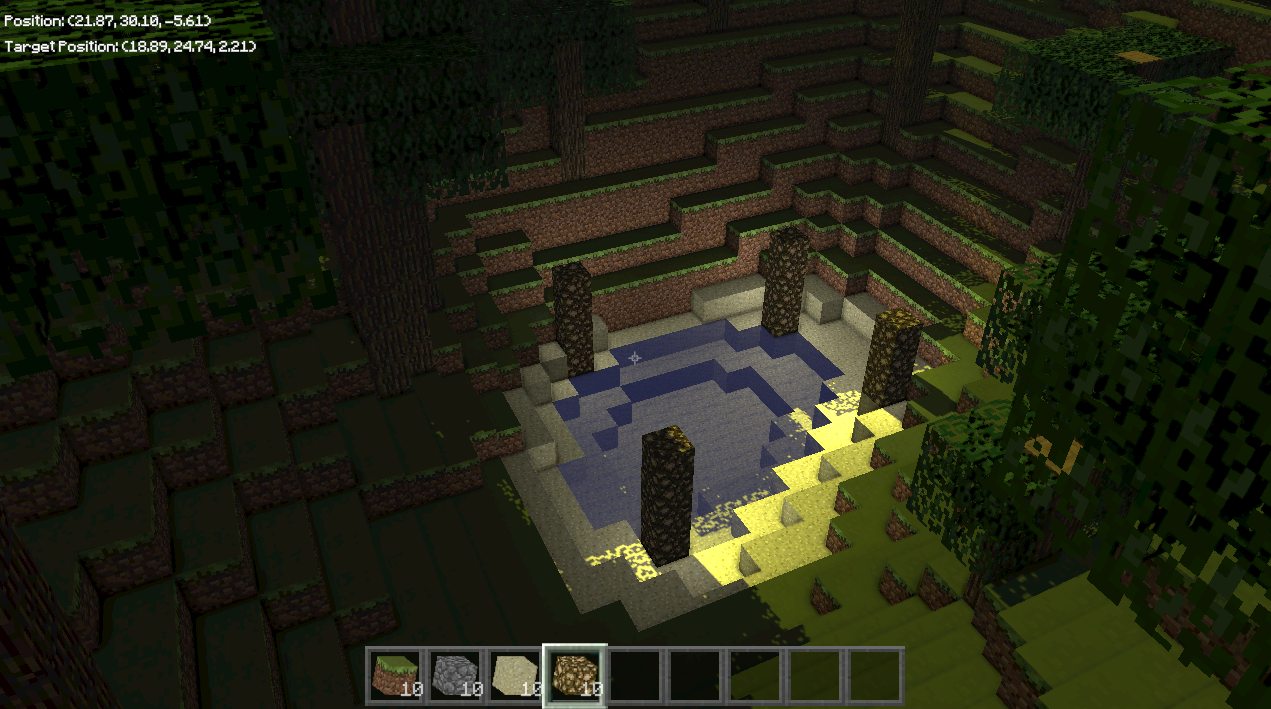
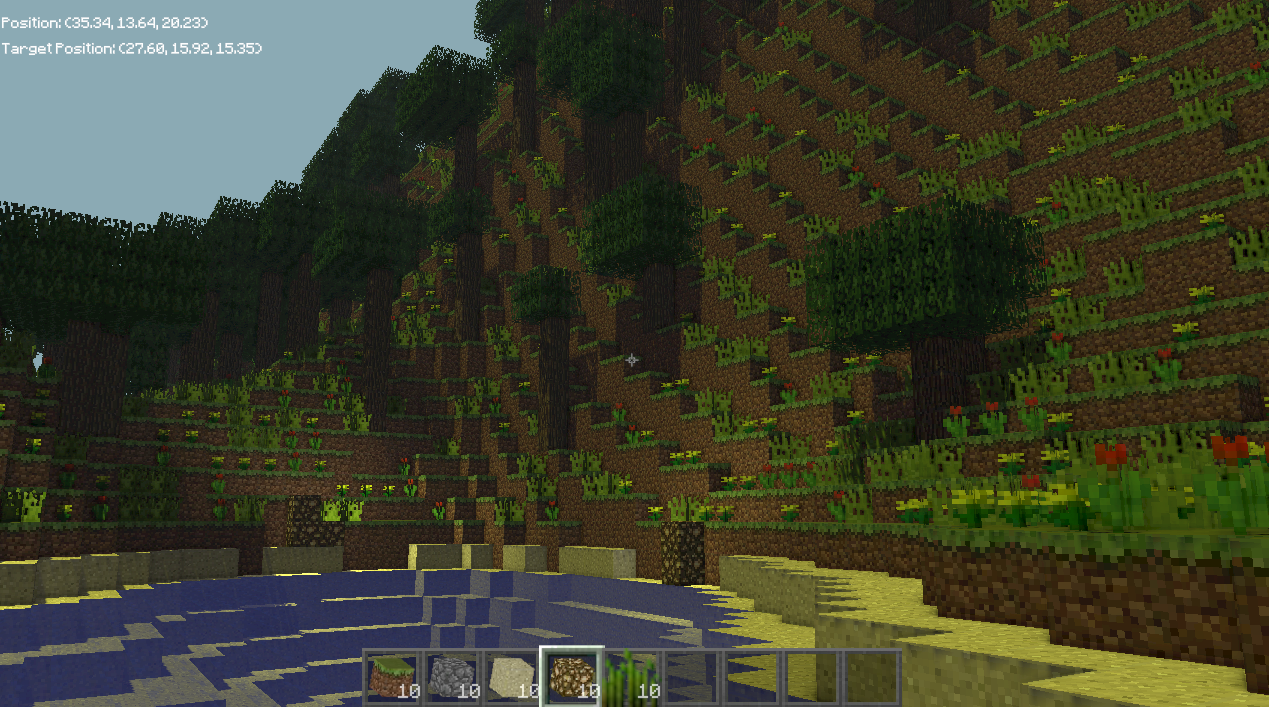
*add grass, flowers and update current look

diff --git a/game/factory/BlockFactory.cpp b/game/factory/BlockFactory.cpp
@@ -153,6 +153,20 @@ CBlockFactory & CBlockFactory::Instance()
 
 TGLUnbakedSolidMeshComponent CBlockFactory::GetMeshForBlock(const TBlockComponent & Block, EBlockFace Faces)
 {
+  switch (Instance().m_BlockUVs[Block.Type].MeshType)
+  {
+    case EBlockMeshType::Cube:
+      return GetCubeMeshForBlock(Block, Faces);
+    case EBlockMeshType::Cross:
+      return GetCrossMeshForBlock(Block, Faces);
+  }
+
+  assert(false);
+  return TGLUnbakedSolidMeshComponent{};
+}
+
+TGLUnbakedSolidMeshComponent CBlockFactory::GetCubeMeshForBlock(const TBlockComponent & Block, EBlockFace Faces)
+{
   TGLUnbakedSolidMeshComponent Mesh;
 
   int ActiveFaceIndex = 0;
@@ -166,7 +180,7 @@ TGLUnbakedSolidMeshComponent CBlockFactory::GetMeshForBlock(const TBlockComponen
 
       ActiveFaceIndex++;
 
-      Mesh.UV = GetUVForBlock(Block, Faces);
+      Mesh.UV = GetCubeUVForBlock(Block, Faces);
 
       Mesh.Normals.insert(Mesh.Normals.end(), CUBE_NORMALS[FaceIndex].begin(), CUBE_NORMALS[FaceIndex].end());
     }
@@ -175,7 +189,96 @@ TGLUnbakedSolidMeshComponent CBlockFactory::GetMeshForBlock(const TBlockComponen
   return Mesh;
 }
 
-std::vector<glm::vec2> CBlockFactory::GetUVForBlock(const TBlockComponent & Block, EBlockFace Faces)
+TGLUnbakedSolidMeshComponent CBlockFactory::GetCrossMeshForBlock(const TBlockComponent & Block, EBlockFace Faces)
+{
+  TGLUnbakedSolidMeshComponent Mesh;
+
+  static constexpr glm::vec3 FirstQuadVertices[] =
+  {
+    // Front face
+    glm::vec3(-0.5f, -0.5f, 0.5f),
+    glm::vec3(0.5f, -0.5f, -0.5f),
+    glm::vec3(0.5f, 0.5f, -0.5f),
+    glm::vec3(-0.5f, 0.5f, 0.5f)
+  };
+
+  static constexpr glm::vec3 SecondQuadVertices[] =
+  {
+    glm::vec3(-0.5f, -0.5f, -0.5f),
+    glm::vec3(0.5f, -0.5f,  0.5f),
+    glm::vec3(0.5f, 0.5f,   0.5f),
+    glm::vec3(-0.5f, 0.5f, -0.5f)
+  };
+
+  static constexpr glm::vec3 FirstQuadNormals[] =
+  {
+    // Front face
+    glm::vec3(1.0f, 0.5f, 1.0f),
+    glm::vec3(1.0f, 0.5f, 1.0f),
+    glm::vec3(1.0f, 0.5f, 1.0f),
+    glm::vec3(1.0f, 0.5f, 1.0f),
+  };
+
+  static constexpr glm::vec3 FirstQuadInversedNormals[] =
+  {
+    // Front face
+    glm::vec3(-1.0f, -0.5f, -1.0f),
+    glm::vec3(-1.0f, -0.5f, -1.0f),
+    glm::vec3(-1.0f, -0.5f, -1.0f),
+    glm::vec3(-1.0f, -0.5f, -1.0f),
+  };
+
+  static constexpr glm::vec3 SecondQuadNormals[] =
+  {
+    glm::vec3(-1.0f, 0.5f, 1.0f),
+    glm::vec3(-1.0f, 0.5f, 1.0f),
+    glm::vec3(-1.0f, 0.5f, 1.0f),
+    glm::vec3(-1.0f, 0.5f, 1.0f),
+  };
+
+  static constexpr glm::vec3 SecondQuadInversedNormals[] =
+  {
+    glm::vec3(1.0f, -0.5f, -1.0f),
+    glm::vec3(1.0f, -0.5f, -1.0f),
+    glm::vec3(1.0f, -0.5f, -1.0f),
+    glm::vec3(1.0f, -0.5f, -1.0f),
+  };
+
+  static constexpr int QuadIndices[] =
+  {
+    0, 1, 2, 2, 3, 0,
+    4, 6, 5, 7, 6, 4,
+    8, 9, 10, 10, 11, 8,
+    13, 12, 14, 15, 14, 12,
+  };
+
+  Mesh.Vertices.reserve(std::size(FirstQuadVertices) * 2  + std::size(SecondQuadVertices) * 2);
+  Mesh.Vertices.insert(Mesh.Vertices.end(), std::begin(FirstQuadVertices), std::end(FirstQuadVertices));
+  Mesh.Vertices.insert(Mesh.Vertices.end(), std::begin(FirstQuadVertices), std::end(FirstQuadVertices));
+  Mesh.Vertices.insert(Mesh.Vertices.end(), std::begin(SecondQuadVertices), std::end(SecondQuadVertices));
+  Mesh.Vertices.insert(Mesh.Vertices.end(), std::begin(SecondQuadVertices), std::end(SecondQuadVertices));
+
+  Mesh.Indices.reserve(std::size(QuadIndices));
+  Mesh.Indices.insert(Mesh.Indices.end(), std::begin(QuadIndices), std::end(QuadIndices));
+
+  Mesh.Normals.reserve(std::size(FirstQuadNormals) + std::size(SecondQuadNormals));
+  Mesh.Normals.insert(Mesh.Normals.end(), std::begin(FirstQuadNormals), std::end(FirstQuadNormals));
+  Mesh.Normals.insert(Mesh.Normals.end(), std::begin(FirstQuadInversedNormals), std::end(FirstQuadInversedNormals));
+  Mesh.Normals.insert(Mesh.Normals.end(), std::begin(SecondQuadNormals), std::end(SecondQuadNormals));
+  Mesh.Normals.insert(Mesh.Normals.end(), std::begin(SecondQuadInversedNormals), std::end(SecondQuadInversedNormals));
+
+  const auto UV = GetCubeUVForBlock(Block, EBlockFace::Front);
+
+  Mesh.UV.reserve(UV.size() * 2);
+  Mesh.UV.insert(Mesh.UV.end(), UV.begin(), UV.end());
+  Mesh.UV.insert(Mesh.UV.end(), UV.begin(), UV.end());
+  Mesh.UV.insert(Mesh.UV.end(), UV.begin(), UV.end());
+  Mesh.UV.insert(Mesh.UV.end(), UV.begin(), UV.end());
+
+  return Mesh;
+}
+
+std::vector<glm::vec2> CBlockFactory::GetCubeUVForBlock(const TBlockComponent & Block, EBlockFace Faces)
 {
   std::vector<glm::vec2> UV;
 
@@ -382,6 +485,8 @@ void CBlockFactory::LoadBlockUVs()
 
       UV.Faces[Index++] = { FaceUV.first / m_BlockAtlasSize.x, FaceUV.second / m_BlockAtlasSize.y };
     }
+
+    UV.MeshType = static_cast<EBlockMeshType>(BlockUV["mesh"].get<int>());
 
     m_BlockUVs[static_cast<EBlockType>(BlockUV["id"].get<int>())] = UV;
   }

diff --git a/game/systems/terrain/NoiseTerrainGenerator.cpp b/game/systems/terrain/NoiseTerrainGenerator.cpp
@@ -63,9 +63,8 @@ TBlockComponent CNoiseTerrainGenerator::GenerateImpl(glm::vec3 _Position)
     if (Elevation < 0.2f)
       return TBlockComponent{ .Type = EBlockType::Sand };
 
-    if (Generate(glm::vec3(_Position.x, _Position.y + 1.f, _Position.z)).Type == EBlockType::Air)
+    if (auto Type = Generate(glm::vec3(_Position.x, _Position.y + 1.f, _Position.z)).Type; Type == EBlockType::Air)
     {
-
       if (m_Noise.GetNoise(_Position.x * 50.f, _Position.z * 50.f) > 0.85f && _Position.y > 15)
       {
         SpawnTreeAt(_Position);
@@ -73,8 +72,18 @@ TBlockComponent CNoiseTerrainGenerator::GenerateImpl(glm::vec3 _Position)
         return Generate(_Position);
       }
 
+      if (m_Noise.GetNoise(_Position.x * 31.f, _Position.z * 31.f) > 0.55f)
+        SpawnGrassAt(_Position);
+      else if (m_Noise.GetNoise(_Position.x * 13.f, _Position.z * 75.f) > 0.71f)
+        SpawnFlowerAt(EBlockType::YellowFlower, _Position);
+      else if (m_Noise.GetNoise(_Position.x * 45.f, _Position.z * 6.f) > 0.43f)
+        SpawnFlowerAt(EBlockType::RedFlower, _Position);
+
       return TBlockComponent{ .Type = EBlockType::Grass };
     }
+    else
+    if (Type == EBlockType::GrassDecoration || Type == EBlockType::YellowFlower || Type == EBlockType::RedFlower)
+      return TBlockComponent{.Type = EBlockType::Grass };
 
     return TBlockComponent{ .Type = EBlockType::Dirt };
   }
@@ -122,4 +131,18 @@ void CNoiseTerrainGenerator::SpawnTreeAt(glm::vec3 _Position)
       }
     }
   }
+}
+
+void CNoiseTerrainGenerator::SpawnGrassAt(glm::vec3 _Position)
+{
+  _Position.y += 1.f;
+
+  m_PredefinedBlocks.emplace(_Position, TBlockComponent{ .Type = EBlockType::GrassDecoration });
+}
+
+void CNoiseTerrainGenerator::SpawnFlowerAt(EBlockType FlowerBlock, glm::vec3 _Position)
+{
+  _Position.y += 1.f;
+
+  m_PredefinedBlocks.emplace(_Position, TBlockComponent{ .Type = FlowerBlock });
 }

diff --git a/game/systems/terrain/ChunkMeshSystem.cpp b/game/systems/terrain/ChunkMeshSystem.cpp
@@ -71,7 +71,6 @@ void CChunkMeshSystem::RecreateChunkMesh(registry_t & Registry_, entity_t ChunkE
       continue;
 
     TGLUnbakedSolidMeshComponent BlockMesh     = CBlockFactory::GetMeshForBlock(Block, Faces.Faces);
-    std::vector<glm::vec2>       BlockUV       = CBlockFactory::GetUVForBlock(Block, Faces.Faces);
     EMeshType                    BlockMeshType = CBlockFactory::GetMeshTypeForBlock(Block);
     const glm::ivec3             BlockPosition = BlockIndexToPosition(Index);
 
@@ -107,7 +106,7 @@ void CChunkMeshSystem::RecreateChunkMesh(registry_t & Registry_, entity_t ChunkE
 
       ChunkMesh.Vertices.insert(ChunkMesh.Vertices.end(), BlockMesh.Vertices.begin(), BlockMesh.Vertices.end());
       ChunkMesh.Indices.insert(ChunkMesh.Indices.end(), BlockMesh.Indices.begin(), BlockMesh.Indices.end());
-      ChunkMesh.UV.insert(ChunkMesh.UV.end(), BlockUV.begin(), BlockUV.end());
+      ChunkMesh.UV.insert(ChunkMesh.UV.end(), BlockMesh.UV.begin(), BlockMesh.UV.end());
       ChunkMesh.Normals.insert(ChunkMesh.Normals.end(), BlockMesh.Normals.begin(), BlockMesh.Normals.end());
     };
 

diff --git a/game/systems/render/GLRenderBufferObjectsSystem.cpp b/game/systems/render/GLRenderBufferObjectsSystem.cpp
@@ -133,8 +133,9 @@ void GLRenderBufferObjectsSystem::UpdateDirectedLightBuffer(registry_t & Registr
   static_assert(std::is_standard_layout_v<TLightUBO>);
   static_assert(sizeof(TLightUBO) % 16 == 0);
 
-  auto && [DirectedLight, Light] = QuerySingle<TDirectedLightComponent, TLightComponent>(Registry_);
-  auto & RenderData              = QuerySingle<TGLRenderPassData>(Registry_);
+  auto &&      [DirectedLight, Light]             = QuerySingle<TDirectedLightComponent, TLightComponent>(Registry_);
+  const auto & [CameraBasis, Position, Transform] = QuerySingle<TCameraBasisComponent, TPositionComponent, TGlobalTransformComponent>(Registry_);
+  auto &       RenderData                         = QuerySingle<TGLRenderPassData>(Registry_);
 
   const glm::mat4 LightProjection = glm::ortho(-100.f, 100.f, -100.f, 100.f, 0.1f, 250.f);
   const glm::mat4 LightView       = glm::lookAt(DirectedLight.Direction, glm::vec3(0.f), glm::vec3(0.f, 1.f, 0.f));

diff --git a/game/factory/BlockFactory.h b/game/factory/BlockFactory.h
@@ -27,7 +27,11 @@ public: // Interface
 
   static TGLUnbakedSolidMeshComponent GetMeshForBlock(const TBlockComponent & Block, EBlockFace Faces);
 
-  static std::vector<glm::vec2> GetUVForBlock(const TBlockComponent & Block, EBlockFace Faces);
+  static TGLUnbakedSolidMeshComponent GetCubeMeshForBlock(const TBlockComponent & Block, EBlockFace Faces);
+
+  static TGLUnbakedSolidMeshComponent GetCrossMeshForBlock(const TBlockComponent & Block, EBlockFace Faces);
+
+  static std::vector<glm::vec2> GetCubeUVForBlock(const TBlockComponent & Block, EBlockFace Faces);
 
   static bool IsBlockTranslucent(const TBlockComponent & Block);
 
@@ -72,9 +76,16 @@ protected: // Service Structs
     float            Resistance{};
   };
 
+  enum class EBlockMeshType
+  {
+    Cube  = 0,
+    Cross = 1
+  };
+
   struct TBlockUV
   {
     std::array<glm::vec2, 6> Faces;
+    EBlockMeshType           MeshType;
   };
 
 protected: // Members

diff --git a/game/systems/render/GLRenderLightAccumulationPassSystem.cpp b/game/systems/render/GLRenderLightAccumulationPassSystem.cpp
@@ -86,13 +86,13 @@ void GLRenderLightAccumulationPassSystem::OnUpdate(registry_t & Registry_, float
 
 	RenderMeshesWithShader(
 			Registry_,
-			Registry_.view<TGLSolidMeshComponent, TGLShaderComponent, TTransformComponent>().each(),
+			Registry_.view<TGLSolidMeshComponent, TGLShaderComponent, TTransformComponent>(entt::exclude<TInvisibleMeshTag>).each(),
 			m_DepthShader
 		);
 
 	RenderMeshesWithShader(
 		  Registry_,
-		  Registry_.view<TGLTranslucentMeshComponent, TGLShaderComponent, TTransformComponent>().each(),
+		  Registry_.view<TGLTranslucentMeshComponent, TGLShaderComponent, TTransformComponent>(entt::exclude<TInvisibleMeshTag>).each(),
 		  m_DepthShader
 	  );
 

diff --git a/game/systems/lightning/DirectedLightMovementSystem.cpp b/game/systems/lightning/DirectedLightMovementSystem.cpp
@@ -5,10 +5,13 @@
 #include "game/components/lightning/DirectedLightComponent.h"
 #include <glm/detail/func_trigonometric.inl>
 
+#include "core/components/PositionComponent.h"
+#include "game/components/camera/CameraBasisComponent.h"
+#include "game/components/camera/GlobalTransformComponent.h"
 #include "game/utils/NumericUtils.h"
 
-static constexpr float FULL_CYCLE_INTERVAL = 20 * 1000;
-static constexpr float AFTER_CYCLE_PAUSE   = 10 * 1000;
+static constexpr float FULL_CYCLE_INTERVAL = 600 * 1000;
+static constexpr float AFTER_CYCLE_PAUSE   = 60 * 1000;
 
 static constexpr float MIN_INTENSITY       = 0.1f;
 static constexpr float MAX_INTENSITY       = 0.3f;

diff --git a/game/systems/content/TargetBlockHighlightSystem.cpp b/game/systems/content/TargetBlockHighlightSystem.cpp
@@ -98,7 +98,7 @@ void CTargetBlockHighlightSystem::UpdateTarget(registry_t & Registry, TCameraTar
   {
     m_MeshEntity = Registry.create();
 
-    TGLUnbakedSolidMeshComponent Mesh = CBlockFactory::GetMeshForBlock(GetComponent<TBlockComponent>(Registry, Target.Target), EBlockFace::All);
+    TGLUnbakedSolidMeshComponent Mesh = CBlockFactory::GetCubeMeshForBlock(GetComponent<TBlockComponent>(Registry, Target.Target), EBlockFace::All);
 
     Mesh.UV = BLOCK_HIGHLIGH_UV;
 

diff --git a/game/systems/terrain/NoiseTerrainGenerator.h b/game/systems/terrain/NoiseTerrainGenerator.h
@@ -27,6 +27,10 @@ protected: // Service
 
   void SpawnTreeAt(glm::vec3 _Position);
 
+  void SpawnGrassAt(glm::vec3 _Position);
+
+  void SpawnFlowerAt(EBlockType FlowerBlock, glm::vec3 _Position);
+
 private: // Members
 
   FastNoiseLite                                  m_Noise;

diff --git a/game/systems/render/GLRenderSolidPassSystem.cpp b/game/systems/render/GLRenderSolidPassSystem.cpp
@@ -10,6 +10,7 @@
 #include "game/components/render/GLMeshComponent.h"
 #include "game/components/render/GLRenderPassData.h"
 #include "game/components/render/GLTextureComponent.h"
+#include "game/components/tags/InvisibleMeshTag.h"
 #include "game/utils/GLRenderUtils.h"
 
 //

diff --git a/game/systems/render/GLRenderTransparentPassSystem.cpp b/game/systems/render/GLRenderTransparentPassSystem.cpp
@@ -6,6 +6,7 @@
 #include "game/components/display/DisplayComponent.h"
 #include "game/components/render/GLMeshComponent.h"
 #include "game/components/render/GLRenderPassData.h"
+#include "game/components/tags/InvisibleMeshTag.h"
 #include "game/utils/GLRenderUtils.h"
 
 //

diff --git a/game/main.cpp b/game/main.cpp
@@ -196,7 +196,7 @@ void InitInventory(World & World_)
     World_.Registry().create(),
     World_.Registry().create(),
     World_.Registry().create(),
-    World_.Registry().create()
+    World_.Registry().create(),
   };
 
   std::array BlockTypes =
